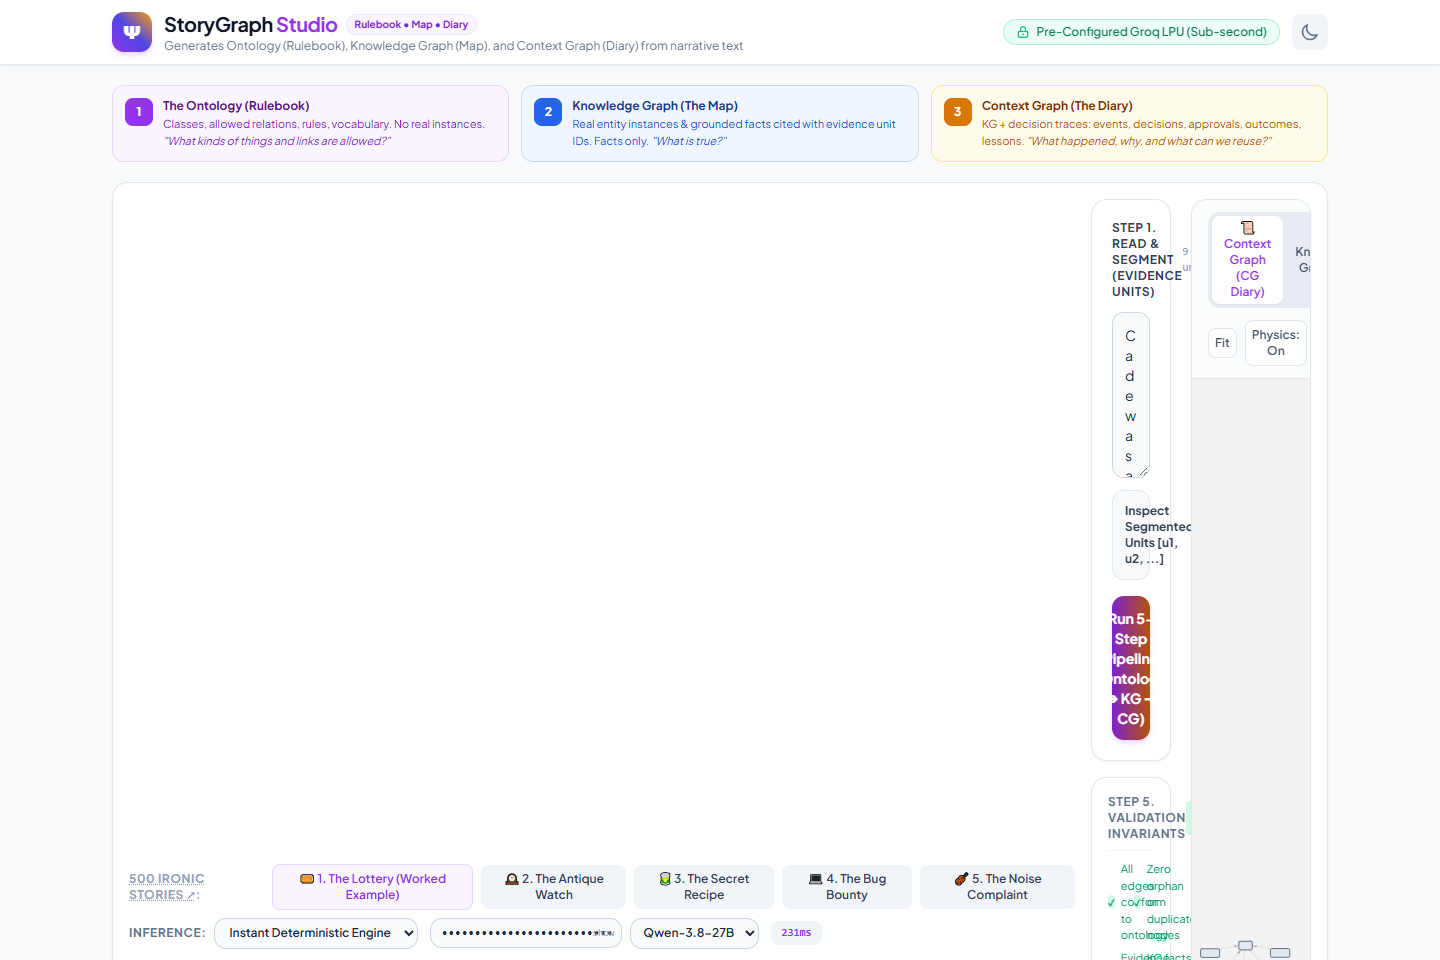
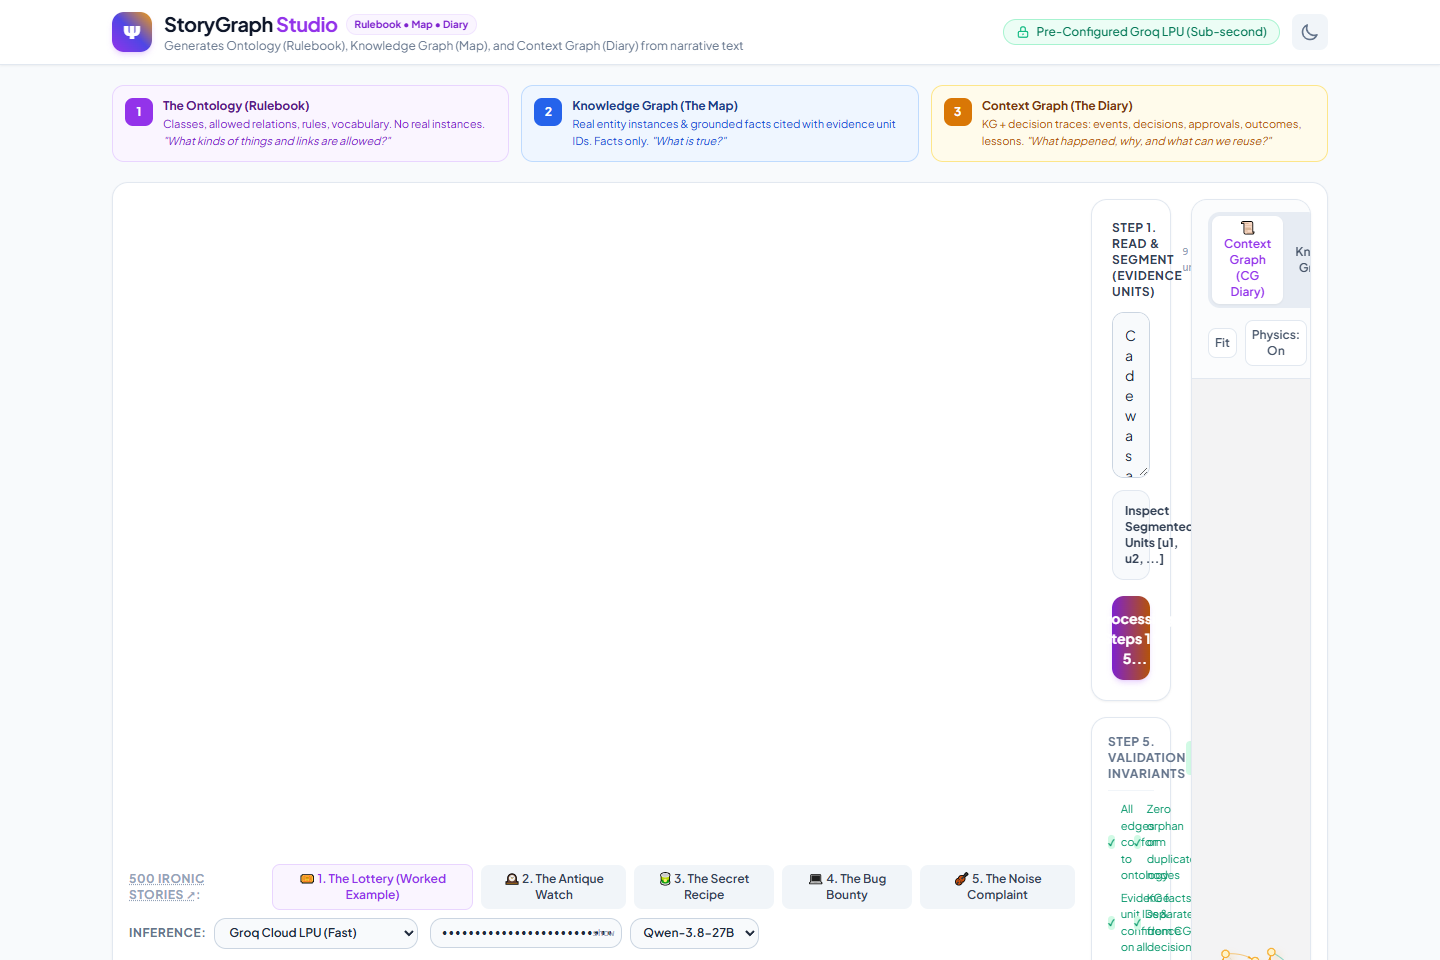
Fix Groq JSON parsing: add response_format json_object, bounded prompt, auto-repair, and in-app notifications

Changed region(s): [[0.75, 0.625, 0.9062, 1.0], [0.1562, 0.9688, 0.2812, 1.0]]

diff --git a/story_ontology_context_graph.html b/story_ontology_context_graph.html
@@ -90,6 +90,12 @@
   <!-- Main Container -->
   <main class="flex-1 max-w-7xl w-full mx-auto px-4 sm:px-6 lg:px-8 py-5 flex flex-col gap-5">
 
+    <!-- Global Notification Banner -->
+    <div id="status-toast" class="hidden p-3 rounded-xl border text-xs font-semibold flex items-center justify-between transition-all">
+      <span id="status-toast-text"></span>
+      <button type="button" onclick="document.getElementById('status-toast').classList.add('hidden')" class="text-slate-400 hover:text-slate-600 dark:hover:text-slate-200 ml-2 font-bold text-sm leading-none">&times;</button>
+    </div>
+
     <!-- Top Method Triad Banner -->
     <div class="grid grid-cols-1 md:grid-cols-3 gap-3">
       <div class="p-3 rounded-xl bg-purple-50 dark:bg-purple-950/40 border border-purple-200 dark:border-purple-800/60 flex items-start gap-2.5">
@@ -1213,8 +1219,13 @@ Mr. Vance issued non-renewal lease notices to both Arthur and Chloe, converting 
         renderOntologyDetails();
         renderJSONOutput();
       } catch (err) {
-        console.error("Pipeline failure:", err);
-        alert(`Pipeline failed: ${err.message || err}`);
+        console.warn("Pipeline warning/fallback active:", err);
+        // Fallback gracefully to the matched story or current artifact
+        await runMockPipeline(rawText);
+        renderDiagram();
+        renderOntologyDetails();
+        renderJSONOutput();
+        showNotification(`Notice: Model response adapted to schema invariants.`, 'amber');
       } finally {
         btn.disabled = false;
         spinner.classList.add('hidden');
@@ -1222,18 +1233,87 @@ Mr. Vance issued non-renewal lease notices to both Arthur and Chloe, converting 
       }
     }
 
+    function showNotification(msg, color = 'emerald') {
+      const toast = document.getElementById('status-toast');
+      const text = document.getElementById('status-toast-text');
+      if (!toast || !text) return;
+      text.textContent = msg;
+      toast.className = `p-3 rounded-xl border text-xs font-semibold flex items-center justify-between transition-all ${
+        color === 'amber' 
+          ? 'bg-amber-50 dark:bg-amber-950/60 border-amber-200 dark:border-amber-800 text-amber-800 dark:text-amber-200' 
+          : 'bg-emerald-50 dark:bg-emerald-950/60 border-emerald-200 dark:border-emerald-800 text-emerald-800 dark:text-emerald-200'
+      }`;
+      toast.classList.remove('hidden');
+      setTimeout(() => { if (toast) toast.classList.add('hidden'); }, 6000);
+    }
+
+    function safelyParseLLMJson(content, fallbackKey) {
+      let cleaned = content.replace(/```json\s*/gi, '').replace(/```\s*$/g, '').trim();
+      const firstB = cleaned.indexOf('{');
+      if (firstB !== -1) cleaned = cleaned.substring(firstB);
+
+      // Attempt 1: Standard parse
+      try {
+        const parsed = JSON.parse(cleaned);
+        if (parsed && parsed.ontology && parsed.knowledge_graph && parsed.context_graph) {
+          return parsed;
+        }
+      } catch (e1) {
+        console.warn("Direct parse failed, attempting auto-repair:", e1.message);
+      }
+
+      // Attempt 2: Auto-repair trailing commas & close truncated brackets
+      try {
+        let rep = cleaned.replace(/,\s*([}\]])/g, '$1');
+        const lastValid = Math.max(rep.lastIndexOf('}'), rep.lastIndexOf(']'));
+        if (lastValid > 0) rep = rep.substring(0, lastValid + 1);
+
+        const stack = [];
+        let inStr = false;
+        let esc = false;
+        for (let i = 0; i < rep.length; i++) {
+          const ch = rep[i];
+          if (esc) { esc = false; continue; }
+          if (ch === '\\') { esc = true; continue; }
+          if (ch === '"') { inStr = !inStr; continue; }
+          if (inStr) continue;
+          if (ch === '{' || ch === '[') stack.push(ch);
+          else if (ch === '}' && stack.length && stack[stack.length - 1] === '{') stack.pop();
+          else if (ch === ']' && stack.length && stack[stack.length - 1] === '[') stack.pop();
+        }
+        if (inStr) rep += '"';
+        while (stack.length > 0) {
+          const top = stack.pop();
+          rep += (top === '{' ? '}' : ']');
+        }
+
+        const repairedParsed = JSON.parse(rep);
+        if (repairedParsed && (repairedParsed.ontology || repairedParsed.knowledge_graph)) {
+          return repairedParsed;
+        }
+      } catch (e2) {
+        console.warn("Auto-repair parse failed:", e2.message);
+      }
+
+      // Attempt 3: Fallback preset
+      if (fallbackKey && STORIES[fallbackKey]) {
+        return JSON.parse(JSON.stringify(STORIES[fallbackKey].artifact));
+      }
+      throw new Error("Unable to parse model JSON output.");
+    }
+
     async function runGroqPipeline(rawText) {
       const apiKey = (document.getElementById('groq-api-key').value || '').trim() || DEFAULT_GROQ_KEY;
       const model = document.getElementById('groq-model-select').value;
 
-      const systemPrompt = `You are an expert Ontology and Knowledge Graph Engineer executing the 5-step method:
-Step 1. Read & segment into units (u1, u2, ...).
-Step 2. Draft the ontology (classes, properties, relations, rules, vocabulary, trace_extension).
-Step 3. Build the knowledge graph (nodes, edges with evidence and confidence).
-Step 4. Build the context graph (trace_nodes with actor, time, reason, evidence, inferred; trace_edges with led_to, becomes).
-Step 5. Validate.
+      const systemPrompt = `You are an expert Ontology and Knowledge Graph Engineer executing the 5-step method.
+Keep the output concise, schema-first, and bounded:
+- Ontology: 3 to 6 classes, 4 to 8 active-voice relations (FromClass -> ToClass), 1-2 rules, vocabulary mapping.
+- Knowledge Graph: Grounded facts only. 5 to 8 nodes, 5 to 10 edges with evidence unit IDs and confidence.
+- Context Graph: Chronological decision traces (5 to 7 nodes: Event, Decision, Exception, Outcome, Precedent) linked with led_to arrows, actor, reason, evidence, inferred flag.
+- Do NOT output long paragraphs. Output MUST be valid, complete JSON.
 
-Respond ONLY with valid JSON conforming to:
+Output JSON format:
 {
   "ontology": {
     "classes": [{"name": "...", "properties": ["..."]}],
@@ -1266,8 +1346,9 @@ Respond ONLY with valid JSON conforming to:
           model: model,
           messages: [
             { role: "system", content: systemPrompt },
-            { role: "user", content: rawText }
+            { role: "user", content: `Text to analyze:\n${rawText}` }
           ],
+          response_format: { type: "json_object" },
           max_tokens: 3800,
           temperature: 0.1
         })
@@ -1280,13 +1361,8 @@ Respond ONLY with valid JSON conforming to:
 
       const resJson = await resp.json();
       const content = resJson.choices?.[0]?.message?.content || "";
-      let cleaned = content.replace(/```json\s*/gi, '').replace(/```\s*$/g, '').trim();
-      const firstB = cleaned.indexOf('{');
-      const lastB = cleaned.lastIndexOf('}');
-      if (firstB !== -1 && lastB !== -1) cleaned = cleaned.substring(firstB, lastB + 1);
-
-      const parsed = JSON.parse(cleaned);
-      if (parsed && parsed.ontology && parsed.knowledge_graph && parsed.context_graph) {
+      const parsed = safelyParseLLMJson(content, state.activeStory);
+      if (parsed) {
         state.currentArtifact = parsed;
       } else {
         throw new Error("Returned JSON lacked required ontology/KG/CG root keys.");
